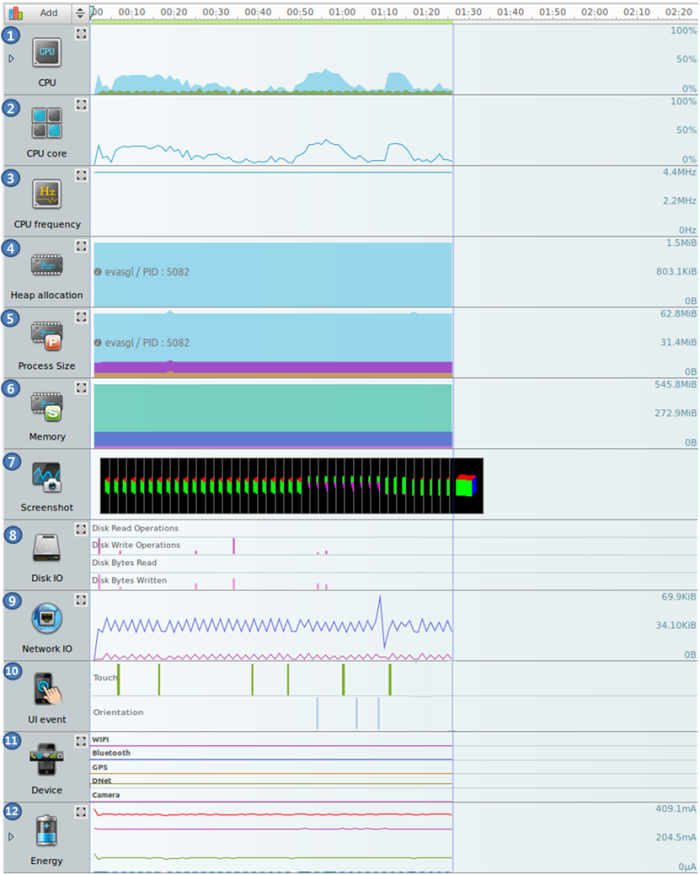
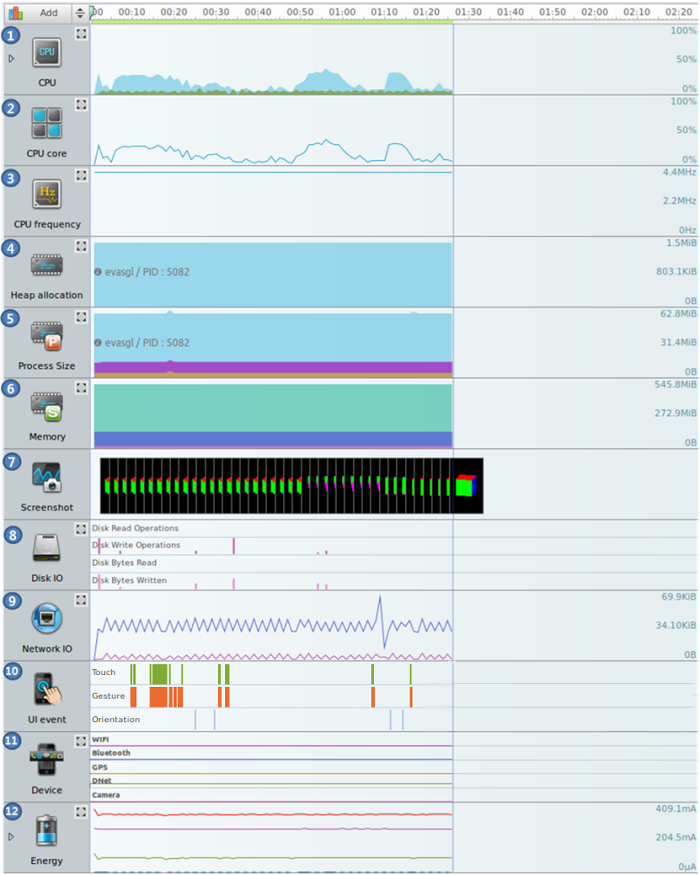
DA : update documents 1. new feature - CheckPoint 2. revision some screenshot and contents

Changed region(s): [[0.12, 0.7406, 0.42, 0.8331], [0.48, 0.7714, 0.6, 0.8331], [0.45, 0.8023, 0.48, 0.8331]]

diff --git a/org.tizen.devtools/html/native_tools/da_checkpoint_n.htm b/org.tizen.devtools/html/native_tools/da_checkpoint_n.htm
@@ -1,0 +1,106 @@
+<!DOCTYPE html PUBLIC "-//W3C//DTD XHTML 1.0 Transitional//EN" "http://www.w3.org/TR/xhtml1/DTD/xhtml1-transitional.dtd">
+<html xmlns="http://www.w3.org/1999/xhtml" xml:lang="en" lang="en">
+<head>
+	<meta http-equiv="content-type" content="text/html; charset=utf-8" />
+	<meta http-equiv="X-UA-Compatible" content="IE=9" />
+	<link rel="stylesheet" type="text/css" href="../css/styles.css" />
+	<link rel="stylesheet" type="text/css" href="../css/snippet.css" />
+	<script type="text/javascript" src="../scripts/snippet.js"></script>	
+	<script type="text/javascript" src="../scripts/jquery.util.js" charset="utf-8"></script>
+	<script type="text/javascript" src="../scripts/common.js" charset="utf-8"></script>
+	<script type="text/javascript" src="../scripts/core.js" charset="utf-8"></script>
+	<script type="text/javascript" src="../scripts/search.js" charset="utf-8"></script>
+
+	<title>CheckPoint Analysis</title>  
+</head>
+
+<body onload="prettyPrint()" style="overflow: auto;">
+
+<div id="toc-navigation">
+	<div id="profile">
+		<p><img alt="Mobile native" src="../images/mn_icon.png"/> <img alt="Wearable native" src="../images/wn_icon.png"/></p>
+	</div>
+	
+	<div id="toc_border"><div id="toc">
+		<p class="toc-title">Content</p>
+		<ul class="toc">
+			<li><a href="#ide">Setting CheckPoint in IDE</a></li>
+			<li><a href="#chart">CheckPoint Chart</a>
+			</li>
+			<li><a href="#list">CheckPoint List</a></li>
+		</ul>
+	</div></div>
+</div>	
+
+<div id="container"><div id="contents"><div class="content">
+<h1>CheckPoint Analysis</h1>
+  <p>The <strong>CheckPoint</strong> tab of the dynamic analyzer shows actual value of variables at <strong>specific point of code (CheckPoint)</strong>. You can trace changes of value of the variable. This can help you when debugging your application.</p>
+<p>CheckPoint can be set in IDE source editor (See <a href="#ide">Setting CheckPoint in IDE</a>), and the value of the CheckPoint is shown in the Dynamic Analyzer.</p>
+  <p class="figure">Figure: CheckPoint analysis</p> 
+  <p align="center"> <img src="../images/da_checkpoint_analysis.png"/> </p> 
+  <p>The tab consists of the following views:</p>
+  <ol>
+   <li><a href="#chart">CheckPoint Chart</a> shows values of all variables.</li>
+   <li><a href="#list">CheckPoint List</a> shows values of the selected variable on chart.</li>  
+  </ol> 
+
+<!-- Setting CheckPoint in IDE -->
+  <h2 name="ide" id="ide">Setting CheckPoint in IDE</h2> 
+  <p>To use CheckPoint Analysis, you must set CheckPoint in IDE source editor first. CheckPoint can be set on a valid point, which is <strong>variable in executable line</strong>.</p>
+  <p>Refer to the following Figure. If you want to trace the value of variable "testString" on line 59, select "testString" and open the context menu.</p>
+  <p class="figure">Figure: IDE source editor</p> 
+  <p align="center"> <img src="../images/da_checkpoint_ide_editor.png" /></p> 
+  <p>To add CheckPoint, click "Add to Checkpoint of Dynamic Analyzer" in context menu. Then you can see a dialog as following Figure. You can get values from two points (Before line execution and After line execution).</p>
+  <p class="figure">Figure: Add to CheckPoint</p> 
+  <p align="center"> <img src="../images/da_checkpoint_add_checkpoint.png" /></p>   
+  <p>Added-CheckPoints are shown on a vertical ruler and CheckPoint View. You can remove CheckPoints on CheckPoint View. After setting CheckPoint, you can use <strong>CheckPoint Analysis</strong> using "Profile As > Profile With Dynamic Analyzer".
+  <p class="figure">Figure: CheckPoint icon on vertical ruler</p> 
+  <p align="center"> <img src="../images/da_checkpoint_ruler.png"/> </p> 
+  <p class="figure">Figure: CheckPoint View</p> 
+  <p align="center"> <img src="../images/da_checkpoint_view_checkpoint.png"/> </p> 
+
+<!-- CheckPoint Chart -->
+  <h2 id="chart" name="chart">CheckPoint Chart</h3> 
+  <p>The CheckPoint chart displays values of all variables set in IDE. Each chart includes information of each CheckPoint. An information format is shown with the format : 'Variable type + variable name (source file name: line number) Before/After'.</p>
+  <p>Every time CheckPoint is executed on target device or emulator, Color bar marks the time on the chart and a tooltip shows detail value at the time.</p>
+  <p>You can see specific CheckPoint values by selecting the chart. All values from the CheckPoint are shown on <a href="#list">CheckPoint List</a>.
+  <p class="figure">Figure: CheckPoint Chart</p> 
+  <p align="center"> <img src="../images/da_checkpoint_chart.png" /> </p> 
+  <p>You can also add some of the Timeline chart using Add button. Refer to <a href="da_timeline_n.htm#config">Chart Configuration</a>.
+  <p class="figure">Add Timeline Chart</p> 
+  <p align="center"> <img src="../images/da_checkpoint_timeline_chart.png" /> </p>
+
+<!-- CheckPoint List -->
+   <h2 id="list" name="list">CheckPoint List</h2>
+  <p>When you select one of the CheckPoint, all values from the CheckPoint are shown in list view.</p>
+  <p>If the variable is an array type, all element of it are shown in the list. Likewise, if the variable is a structure type, all members of it are shown.</p>
+  <p>You can relate a function call with the CheckPoint values of a specific time. If you select a row in the list, the related function call is highlighted in the <a href="da_timeline_n.htm#trace">Call Trace List</a>.</p>
+  <p class="figure">Figure: CheckPoint List (array)</p>
+  <p align="center"> <img src="../images/da_checkpoint_list_array.png" /> </p>
+  <p class="figure">Figure: CheckPoint List (structure)</p>
+  <p align="center"> <img src="../images/da_checkpoint_list_struct.png" /> </p>
+  
+<script type="text/javascript" src="../scripts/jquery.zclip.min.js"></script>
+<script type="text/javascript" src="../scripts/showhide.js"></script>
+</div></div></div>
+
+<a class="top sms" href="#"><img src="../images/btn_top.gif" alt="Go to top" /></a>
+
+<div id="footer">
+<p class="footer">Except as noted, this content - excluding the Code Examples - is licensed under <a href="http://creativecommons.org/licenses/by/3.0/legalcode" target="_blank">Creative Commons Attribution 3.0</a> and all of the Code Examples contained herein are licensed under <a href="https://www.tizen.org/bsd-3-clause-license" target="_blank">BSD-3-Clause</a>.<br/>For details, see the <a href="https://www.tizen.org/content-license" target="_blank">Content License</a>.</p>
+</div>
+
+<script type="text/javascript">
+var _gaq = _gaq || [];
+_gaq.push(['_setAccount', 'UA-25976949-1']);
+_gaq.push(['_trackPageview']);
+(function() {
+var ga = document.createElement('script'); ga.type = 'text/javascript'; ga.async = true;
+ga.src = ('https:' == document.location.protocol ? 'https://ssl' : 'http://www') + '.google-analytics.com/ga.js';
+var s = document.getElementsByTagName('script')[0]; s.parentNode.insertBefore(ga, s);
+})();
+</script>
+
+</body>
+</html>
+

diff --git a/org.tizen.gettingstarted/html/native/process/performance_n.htm b/org.tizen.gettingstarted/html/native/process/performance_n.htm
@@ -131,7 +131,9 @@
    <p>To delete a trace, select the trace and click the delete key on your keyboard.</p> </li>
    <li><strong>Replay</strong>
    <p>Clicking <strong>Replay</strong> repeats a previous analysis. You can use data from a previous dynamic analyzer instance or a saved trace data file. If the target or application do not match, the button is disabled.</p> </li> 
-    <li><strong>View Source</strong>
+   <li><strong>Process</strong>
+   <p>The <strong>Process</strong> combo box has a process list of the application being traced. By default, the dynamic analyzer shows analysis results of all processes. And if you select a process in the list, the dynamic analyzer shows only an analysis result of that process.</p>
+<li><strong>View Source</strong>
    <p>The <strong>View Source</strong> button displays the source code. If you click the button and the mouse is on the method name in any table-like view, the source code is displayed as a tooltip. By double-clicking the tooltip you can see the source code in the IDE. Apart from the Callstack view, the source code displayed is the caller part of the selected API, not the API definition.</p>
 
  <p>If an API is called from a shared library, the source code is not displayed as the source code of the shared library is not available.</p> 
@@ -148,6 +150,8 @@
           </tr> 
          </tbody> 
         </table></li> 
+   <li><strong>Capture screen</strong>
+   <p>The <strong>Capture screen</strong> button captures the screen of target at the time. the screenshot is shown in snapshot view.</p>
    <li><strong>Settings</strong>
    <p>The <strong>Settings</strong> button opens the <strong>Settings</strong> window. It supports the runtime configuration feature and other settings.</p></li>
    <li><strong>About</strong> 

diff --git a/org.tizen.devtools/html/native_tools/da_overview_n.htm b/org.tizen.devtools/html/native_tools/da_overview_n.htm
@@ -53,9 +53,11 @@
    <li><a href="da_thread_n.htm">Thread</a> 
    <p>The <strong>Thread</strong> tab shows information about thread and synchronization.</p> </li>
    <li><a href="da_network_n.htm">Network</a> 
-   <p>The <strong>Network</strong> tab displays information about the network.</p></li> 
+   <p>The <strong>Network</strong> tab shows information about the network.</p></li> 
 <li><a href="da_opengl_n.htm">OpenGL</a> 
-   <p>The <strong>OpenGL</strong> page displays information about OpenGL&reg; 2.0 and EvasGL.</p></li>    
+   <p>The <strong>OpenGL</strong> tab shows information about OpenGL&reg; 2.0 and EvasGL.</p></li>    
+<li><a href="da_checkpoint_n.htm">CheckPoint</a> 
+   <p>The <strong>CheckPoint</strong> tab shows information about CheckPoint set via IDE.</p></li>    
   </ul>
   
   <p>The tabs on the main display can be reordered by dragging and dropping.</p>

diff --git a/org.tizen.devtools/html/index.htm b/org.tizen.devtools/html/index.htm
@@ -92,6 +92,7 @@
 			<li><a href="native_tools/da_file_n.htm">File Analysis</a></li>
 			<li><a href="native_tools/da_network_n.htm">Network Analysis</a></li>
 			<li><a href="native_tools/da_opengl_n.htm">OpenGL&reg; Analysis</a></li>
+			<li><a href="native_tools/da_checkpoint_n.htm">CheckPoint Analysis</a></li>
 			<li><a href="native_tools/da_range_info_n.htm">Range</a></li>
 			<li><a href="native_tools/da_views_n.htm">Other Views</a></li>
 			</ul>

diff --git a/org.tizen.devtools/html/native_tools/da_timeline_n.htm b/org.tizen.devtools/html/native_tools/da_timeline_n.htm
@@ -130,7 +130,8 @@
    
    <li><strong>UI Event chart</strong> <p>Shows UI events that occur on the device.</p> 
     <ul> 
-     <li><p><img src="../images/color_20.png" />: Touch event</p></li> 
+     <li><p><img src="../images/color_20.png" />: Touch event</p></li>
+     <li><p><img src="../images/color_024.png" />: Gesture event</p></li> 
      <li><p><img src="../images/color_22.png" />: Orientation event</p></li> 
     </ul></li> 
 	
